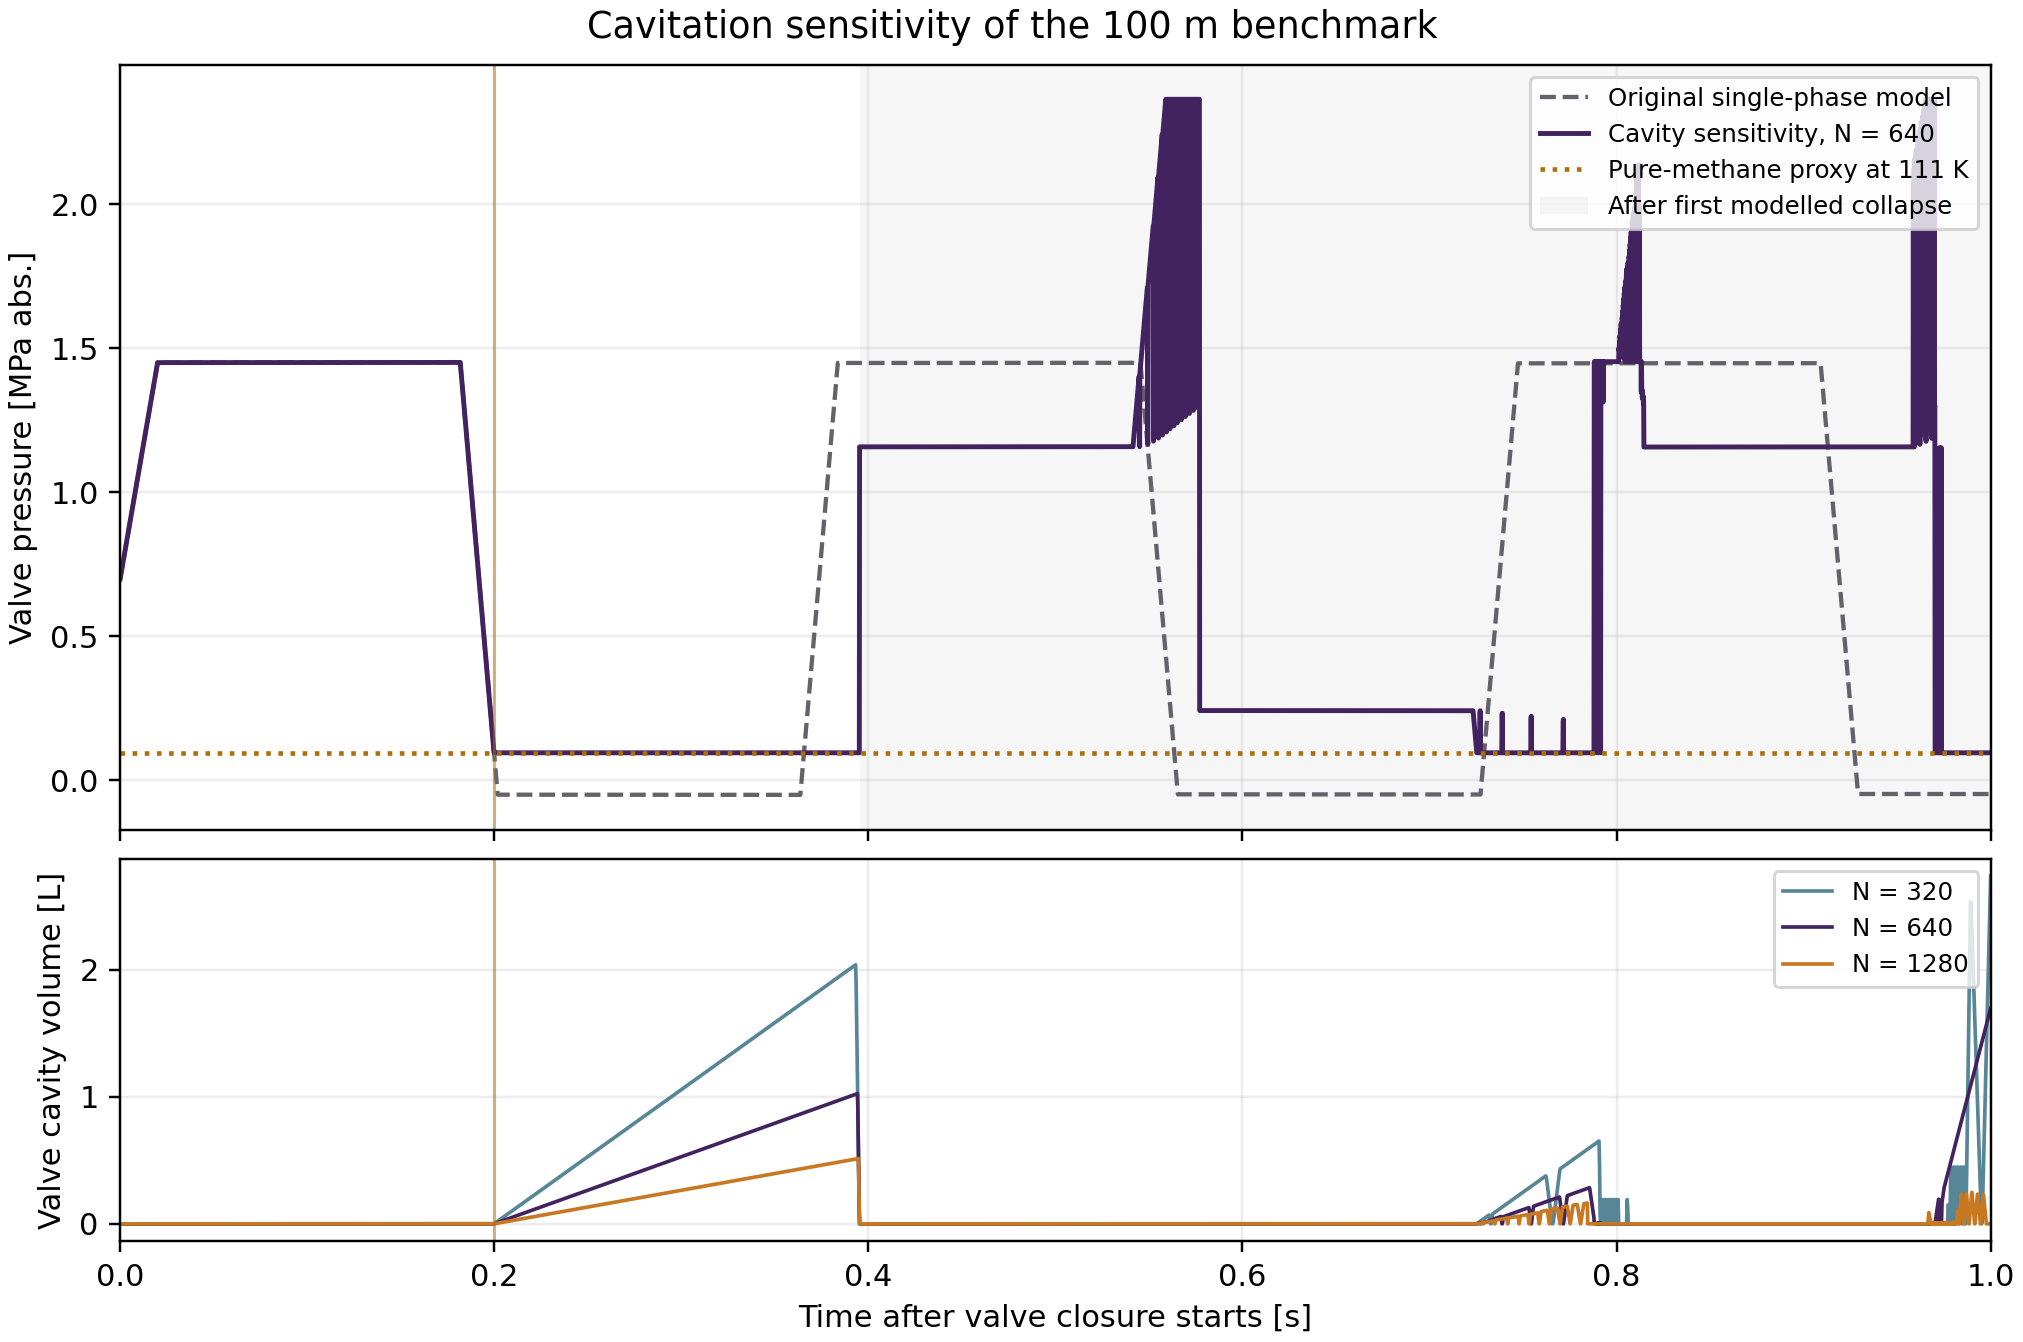
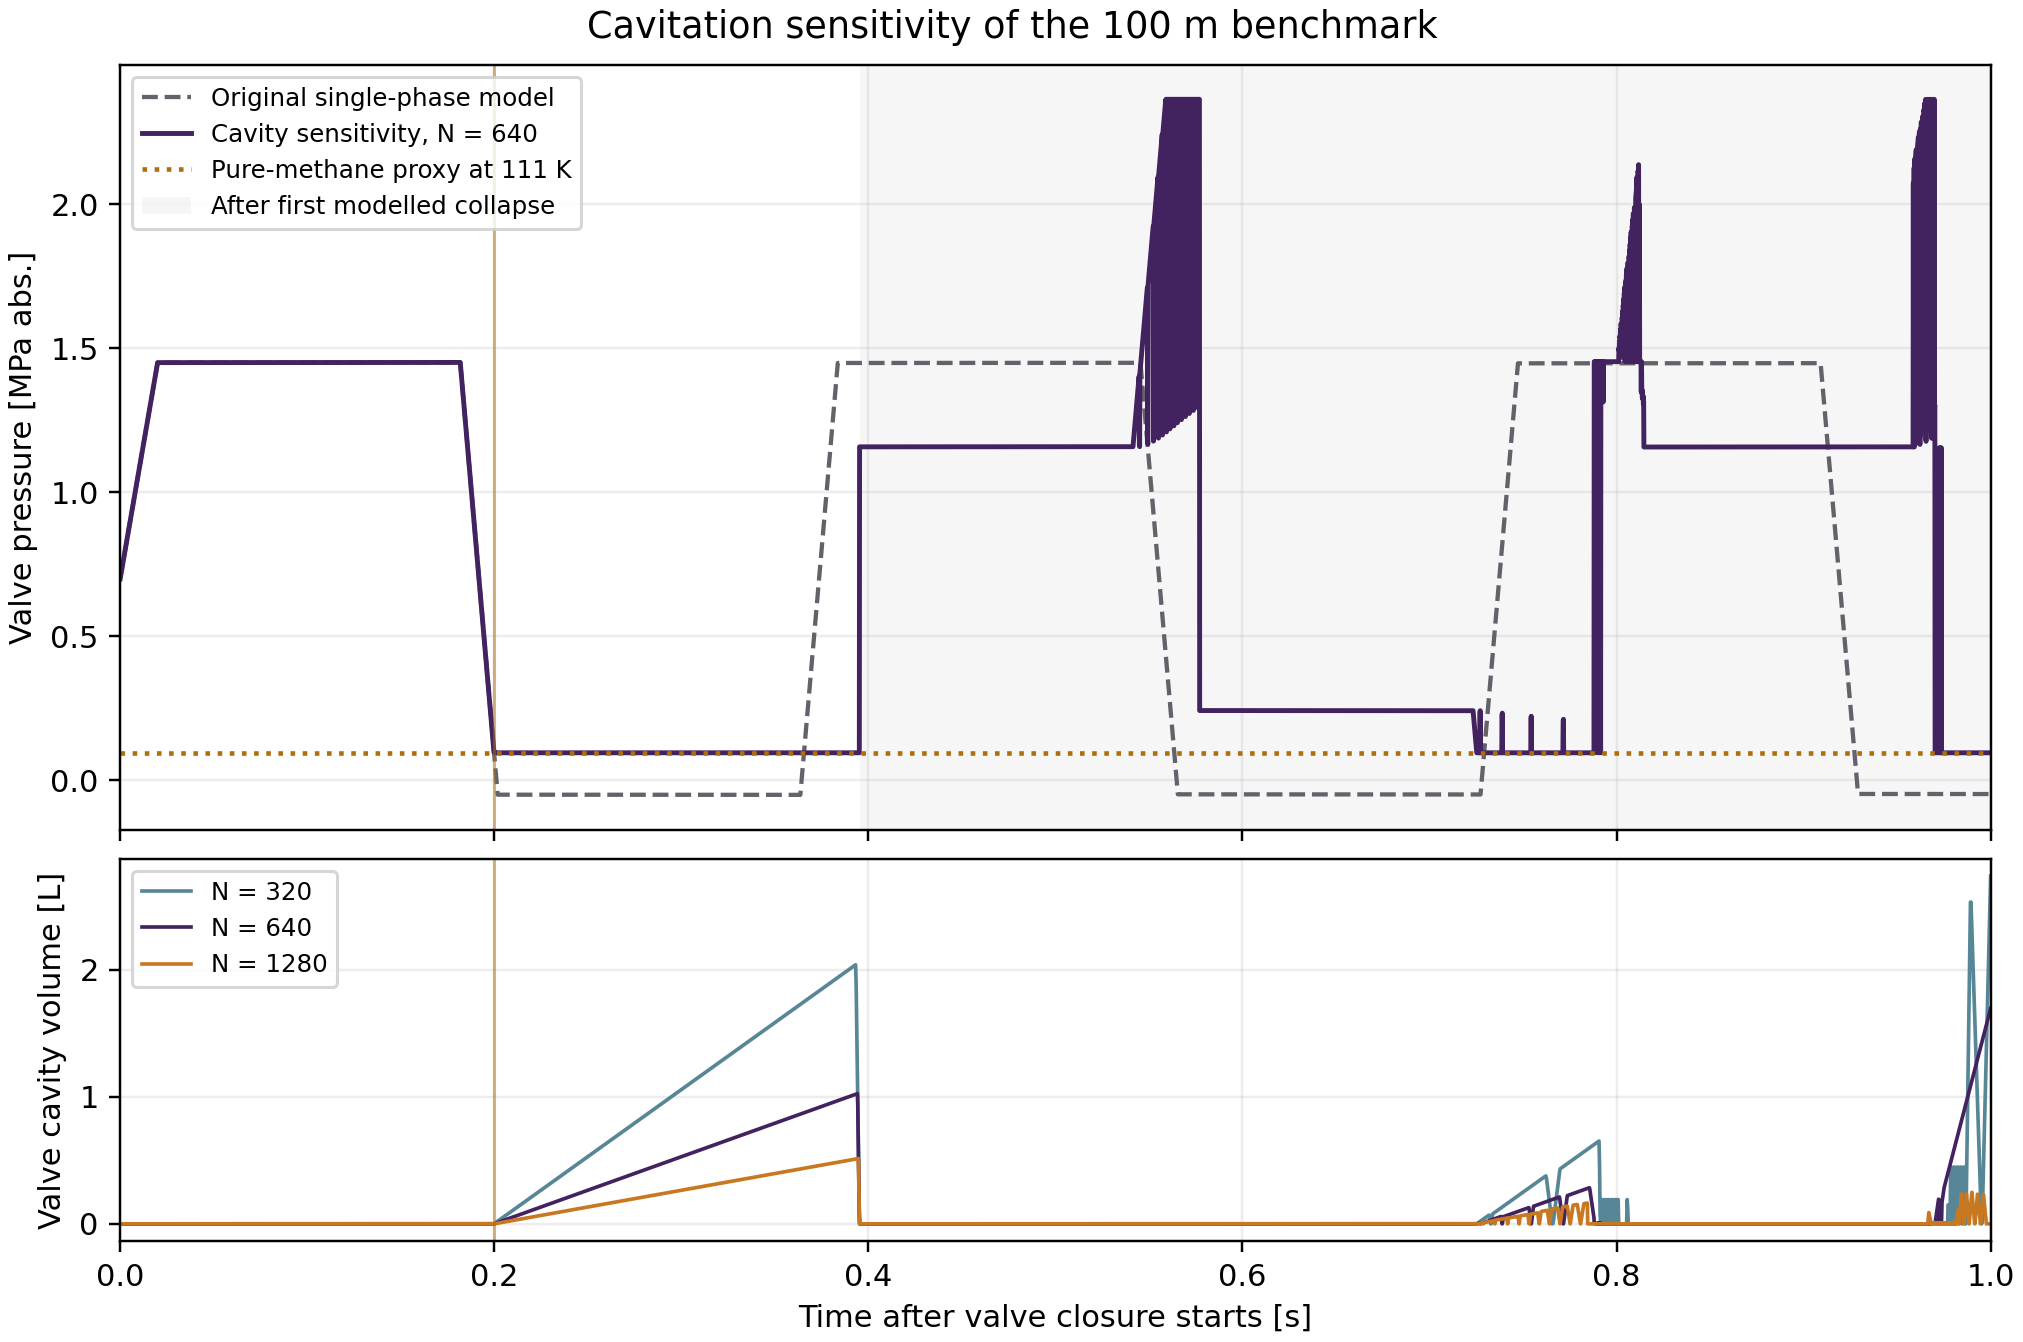
Move the valve cavitation comparison legends to the upper left

diff --git a/studies/stage1_cavitation/cavitation_sensitivity.py b/studies/stage1_cavitation/cavitation_sensitivity.py
@@ -155,12 +155,12 @@ def plot(output, phase, base, cases, rows):
     pressure.axvspan(cases[640]["valve_first_collapse_s"],1.,color="#bdb5c3",alpha=.12,lw=0,
                      label="After first modelled collapse")
     pressure.set(ylabel="Valve pressure [MPa abs.]")
-    pressure.legend(loc="upper right",fontsize=8,frameon=True)
+    pressure.legend(loc="upper left",fontsize=8,frameon=True)
     for grid,colour in [(320,"#578697"),(640,"#432260"),(1280,"#c87821")]:
         run=cases[grid]
         volume.plot(run["time"],run["valve_volume"]*1e3,lw=1.2,label=f"N = {grid}",color=colour)
     volume.set(xlabel="Time after valve closure starts [s]",ylabel="Valve cavity volume [L]",xlim=(0,1))
-    volume.legend(loc="upper right",fontsize=8)
+    volume.legend(loc="upper left",fontsize=8)
     for axis in (pressure,volume):
         axis.axvline(cases[640]["valve_activation_s"],color="#ac6f09",lw=1.,alpha=.5)
         axis.grid(alpha=.22)
